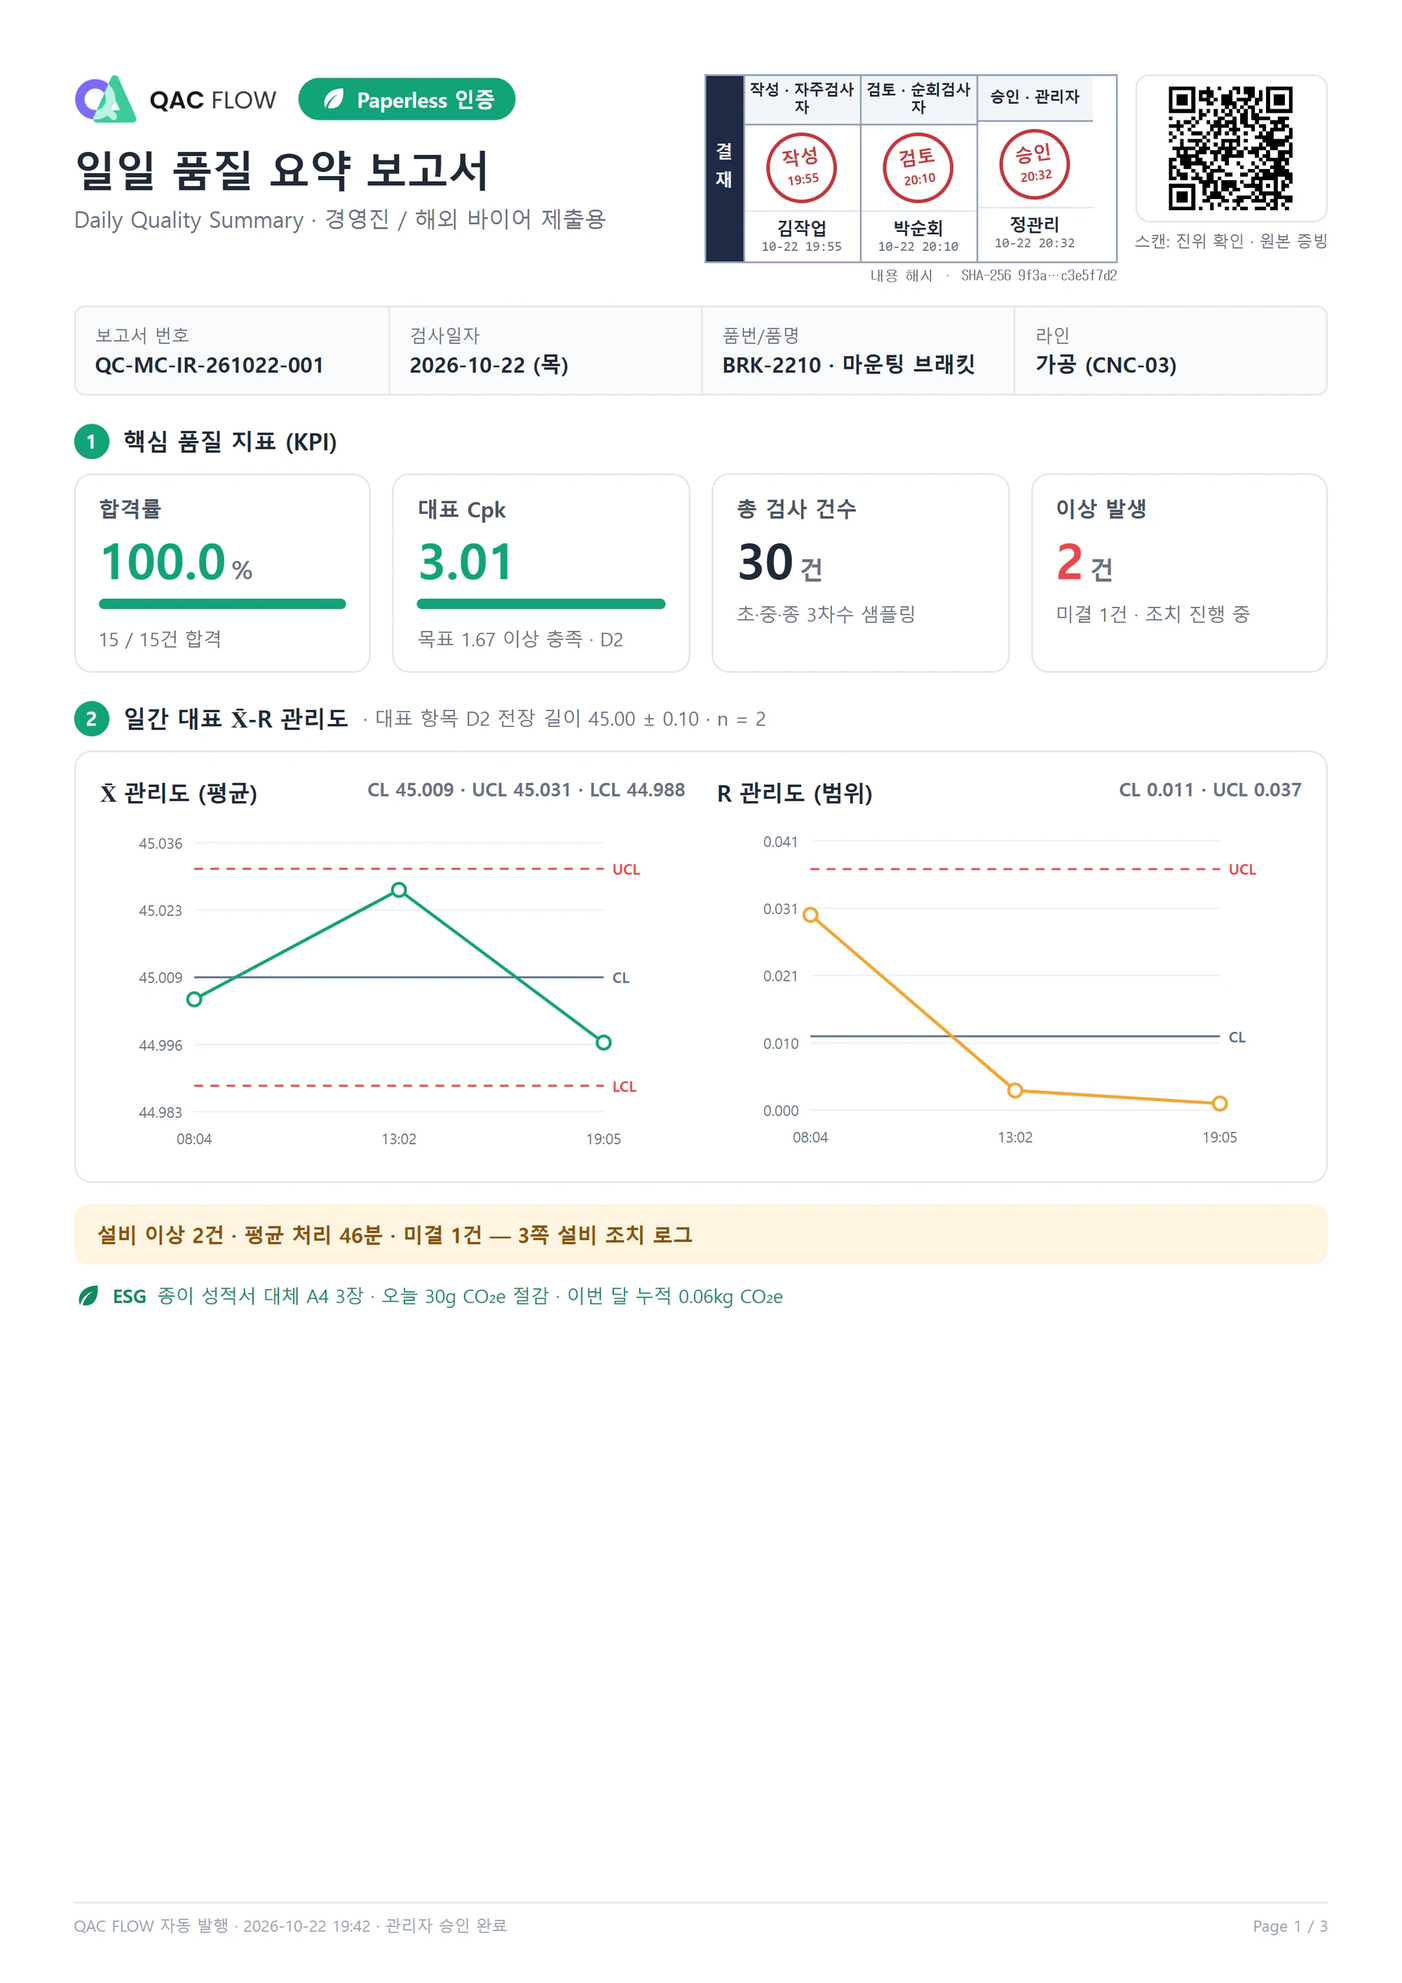
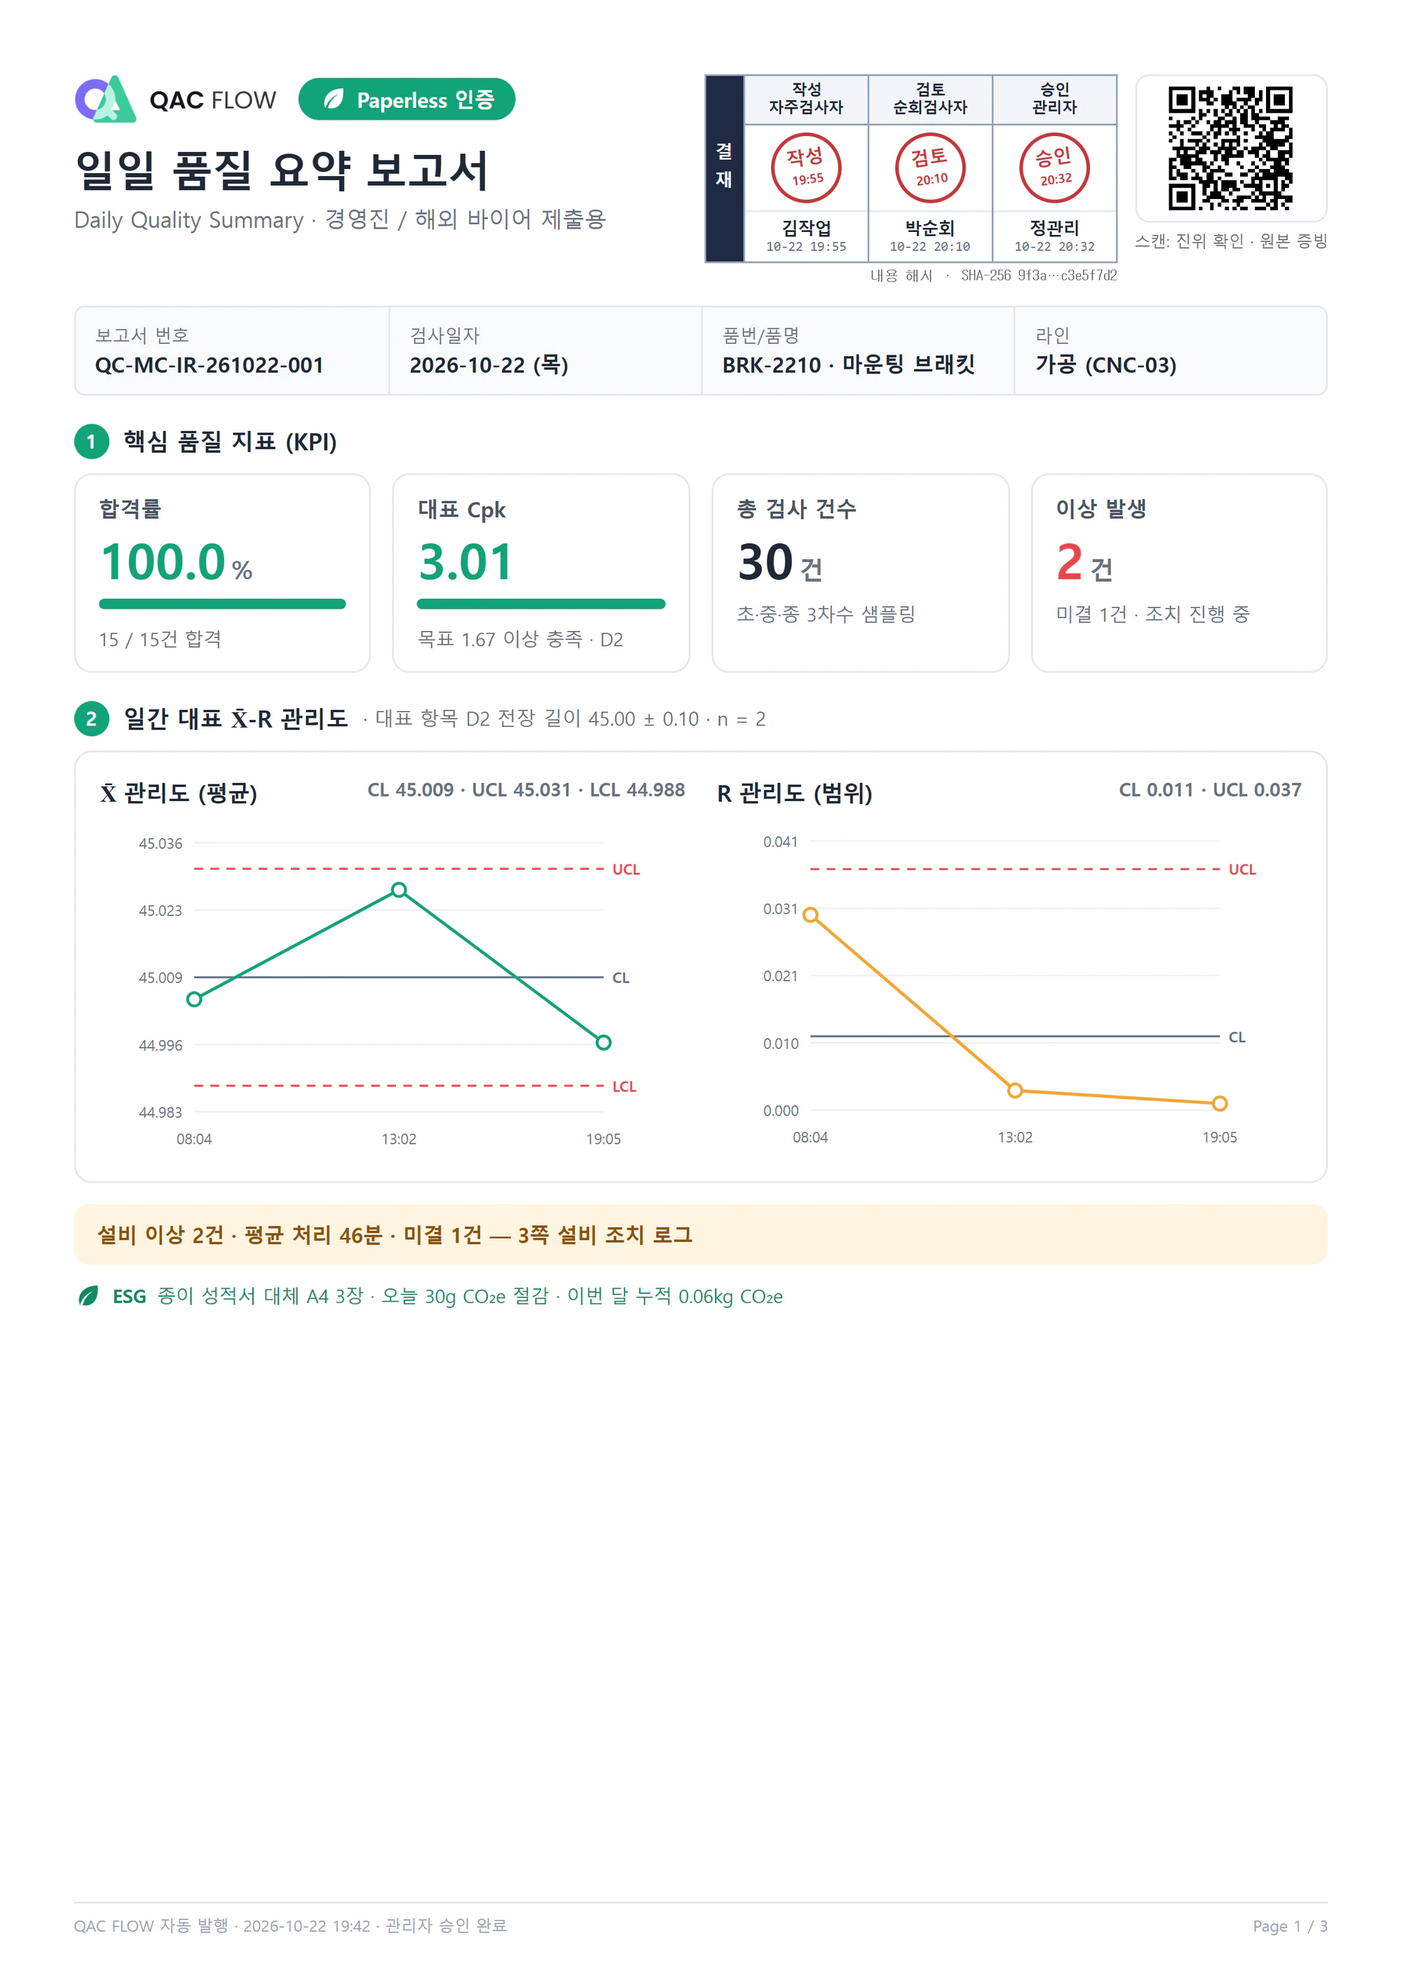
feat: SPC 화면에 매뉴얼식 번호 표시와 설명, 라이트 모드 배경을 흰색으로, 도입 카드를 문의 안내로, 보고서 1쪽 결재란 정렬
- SPC 4개 화면마다 꼬리 달린 번호 표시 + 화면 아래 번호별 설명 (국문·영문)
- 라이트 배경 #D8DBDF → 흰색, 교차 구간·카드는 아주 옅은 회색
- '4주 동안 먼저 써 보세요' → '우리 현장에도 맞을지 궁금하다면 편하게 문의해 주세요'
- 국문 보고서 1쪽 결재란을 같은 너비 3칸·두 줄 머리글로 다시 맞춤 (캡처의 글자·도장 픽셀 그대로)

Changed region(s): [[0.527, 0.0311, 0.775, 0.1244]]

diff --git a/src/i18n/locales/ko.ts b/src/i18n/locales/ko.ts
@@ -201,6 +201,37 @@ export const ko = {
       metricsLabel: '한눈에 보는 지표',
       metrics: ['Cpk', 'Ppk', '평균', '표준편차', '측정 수', '관리 이탈'],
       captions: ['조회 조건 · 지표 · Xbar-R 관리도', '공정능력', '설비 이상 신고 목록', '설비 이상 처리 과정'],
+      /** the numbered notes on each screen, in the order of its markers (Spc.tsx) */
+      guides: [
+        [
+          { title: '조회 조건', body: '제품, 측정 항목, 설비, 기간을 골라 볼 범위를 정합니다.' },
+          { title: '관리 한계 근접 경고', body: '부분군 평균이 관리 한계에 가까워지면 이탈 전에 미리 알려 줍니다.' },
+          { title: '공정능력 지표', body: 'Cpk·Ppk가 목표(1.67)를 넘는지 색과 함께 바로 보여 줍니다.' },
+          { title: '관리 이탈', body: '관리 한계를 벗어난 부분군 수와 조치가 필요한지 표시합니다.' },
+          { title: '이탈점', body: '빨간 점은 관리 한계를 벗어난 부분군, 주황 점은 한계에 가까운 부분군입니다.' },
+          { title: '관리 한계선', body: 'UCL·CL·LCL과 공차 85% 선을 함께 그려 여유를 한눈에 봅니다.' },
+          { title: 'R 관리도', body: '부분군 안의 산포(범위)가 커지는지 따로 봅니다.' }
+        ],
+        [
+          { title: '측정값 분포', body: '선택한 기간의 전체 측정값을 히스토그램과 정규 곡선으로 봅니다.' },
+          { title: '규격 한계', body: '빨간 선이 규격 하한(LSL)과 상한(USL)입니다. 분포가 그 안에 얼마나 여유 있게 들어오는지 봅니다.' },
+          { title: '공정능력 지수', body: 'Cp·Cpk는 군내 σ, Pp·Ppk는 전체 σ로 계산합니다.' }
+        ],
+        [
+          { title: '상태 필터', body: '신고 접수, 조치 중, 조치 완료별로 골라 봅니다.' },
+          { title: '이상 신고', body: '현장에서 설비 이상을 바로 신고합니다.' },
+          { title: '신고 내용', body: '어느 설비에 어떤 이상이 있었는지, 언제 누가 신고했는지 남습니다.' },
+          { title: '비가동·비용', body: '이상으로 멈춘 시간과 조치에 든 비용이 함께 기록됩니다.' },
+          { title: '조치 상태', body: '조치 중인지, 끝났는지 한눈에 구분합니다.' }
+        ],
+        [
+          { title: '이상 내용', body: '신고된 설비와 제품, 신고자와 일시, 이상 내용입니다.' },
+          { title: '처리 타임라인', body: '신고 접수 → 조치 중 → 조치 완료가 담당자와 시각과 함께 이어집니다.' },
+          { title: '조치 내용', body: '무엇을 했는지와 그때의 비가동 시간, 비용입니다.' },
+          { title: '합계', body: '이 신고의 총 비가동 시간과 총 조치 비용입니다.' },
+          { title: '이 설비의 다른 신고', body: '같은 설비의 지난 이상 이력을 바로 이어서 봅니다.' }
+        ]
+      ],
       alts: [
         'SPC 분석 화면: 제품·측정 항목·설비·기간 조회 조건, 관리 한계 근접 경고, Cpk·Ppk·평균·σ·측정 수·관리 이탈 지표, X̄ 관리도와 R 관리도',
         'SPC 분석 공정능력: 전체 측정값 분포 히스토그램과 규격 하한·상한, Cp·Cpk·Pp·Ppk',
@@ -260,7 +291,7 @@ export const ko = {
         { title: '모니터', body: '현장 현황판' }
       ],
       kitNote: '전용 측정 장비나 센서 공사는 필요 없습니다.',
-      trial: { label: '4주 시험 적용', title: '우리 현장에서 4주 동안 먼저 써 보세요.', body: '실제 검사에 4주 동안 시험 적용해 보고 도입을 결정할 수 있습니다. 대상 품목과 진행 방법은 상담에서 함께 정합니다.', cta: '시험 적용 문의' },
+      trial: { label: '도입 문의', title: '우리 현장에도 맞을지 궁금하다면 편하게 문의해 주세요.', body: '검사하는 품목과 쓰시는 측정기, 지금의 검사 방식을 알려 주시면 현장에 맞는 적용 방법을 안내해 드립니다. 실제 검사에 4주 동안 시험 적용해 보는 방법도 함께 상의할 수 있습니다.', cta: '도입 문의하기' },
       faqTitle: '자주 묻는 질문',
       faq: [
         { q: '어떤 측정기를 쓸 수 있나요?', a: '측정값이 화면에 숫자로 표시되는 디지털 측정기(디지털 캘리퍼스 등)를 촬영해 OCR로 읽습니다. 현장에서 쓰는 측정기가 맞는지는 상담에서 확인해 드립니다.' },

diff --git a/src/i18n/locales/en.ts b/src/i18n/locales/en.ts
@@ -190,6 +190,37 @@ export const en: Messages = {
       metricsLabel: 'Key indicators',
       metrics: ['Cpk', 'Ppk', 'Mean', 'Std. dev.', 'Sample count', 'Out of control'],
       captions: ['Filters · indicators · Xbar-R charts', 'Process capability', 'Equipment issue reports', 'How an issue was handled'],
+      /** the numbered notes on each screen, in the order of its markers (Spc.tsx) */
+      guides: [
+        [
+          { title: 'Filters', body: 'Choose the product, dimension, machine and period to look at.' },
+          { title: 'Control limit warning', body: 'Warns when subgroup means approach a control limit, before they go out of control.' },
+          { title: 'Capability indicators', body: 'Shows at a glance, by color, whether Cpk and Ppk meet the 1.67 target.' },
+          { title: 'Out of control', body: 'The number of subgroups beyond the control limits, and whether action is needed.' },
+          { title: 'Flagged points', body: 'Red points are subgroups beyond a control limit; orange points are near one.' },
+          { title: 'Control limits', body: 'UCL, CL and LCL are drawn with the 85%-of-tolerance lines, so the margin is easy to see.' },
+          { title: 'R chart', body: 'Tracks the spread (range) within each subgroup on its own chart.' }
+        ],
+        [
+          { title: 'Distribution', body: 'All measurements in the period as a histogram with a normal curve.' },
+          { title: 'Spec limits', body: 'The red lines are the lower (LSL) and upper (USL) spec limits; see how comfortably the distribution fits between them.' },
+          { title: 'Capability indices', body: 'Cp and Cpk use within-subgroup sigma; Pp and Ppk use overall sigma.' }
+        ],
+        [
+          { title: 'Status filter', body: 'Filter by reported, in progress and resolved.' },
+          { title: 'Report an issue', body: 'Report an equipment issue straight from the floor.' },
+          { title: 'Issue details', body: 'Which machine had what issue, and when and by whom it was reported.' },
+          { title: 'Downtime and cost', body: 'The time the machine was down and the cost of the action are recorded with it.' },
+          { title: 'Action status', body: 'See at a glance whether an issue is still being handled or resolved.' }
+        ],
+        [
+          { title: 'Issue', body: 'The machine and product, who reported it and when, and what happened.' },
+          { title: 'Handling timeline', body: 'Reported → in progress → resolved, each step with its owner and time.' },
+          { title: 'Action taken', body: 'What was done, with the downtime and cost at that step.' },
+          { title: 'Totals', body: 'Total downtime and total action cost for this issue.' },
+          { title: 'The machine\'s other reports', body: 'The same machine\'s earlier issues, one tap away.' }
+        ]
+      ],
       alts: [
         'SPC analysis screen: product, dimension, machine and period filters, an approaching-control-limit warning, Cpk, Ppk, mean, sigma, sample count and out-of-control indicators, and the X̄ and R charts',
         'SPC process capability: a histogram of all measurements against the lower and upper spec limits, with Cp, Cpk, Pp and Ppk',
@@ -250,10 +281,10 @@ export const en: Messages = {
       ],
       kitNote: 'No dedicated measuring equipment or sensor installation required.',
       trial: {
-        label: '4-week trial',
-        title: 'Try it on your own floor for four weeks.',
-        body: 'Run QAC FLOW on real inspections for four weeks before you decide. We agree on the parts and the plan together.',
-        cta: 'Ask about a trial'
+        label: 'Get in touch',
+        title: 'Wondering whether it fits your floor? We would be glad to hear from you.',
+        body: 'Tell us about the parts you inspect, the gauges you use and how you inspect today, and we will suggest how QAC FLOW could work for you. A four-week trial on real inspections can be part of that conversation.',
+        cta: 'Contact us'
       },
       faqTitle: 'Frequently asked questions',
       faq: [

diff --git a/src/views/qac-flow/parts.tsx b/src/views/qac-flow/parts.tsx
@@ -64,6 +64,48 @@ export function Browser({ src, alt, sizes, caption, className }: { src: string; 
   );
 }
 
+/** where a numbered marker points on a screen, in % of the image (the tip of its tail) */
+export type Pin = { x: number; y: number };
+
+/** A web screen with numbered markers on it, the way a manual points things out, and the notes for those
+ * numbers under it. Each marker is a mint disc whose tail ends on the spot; the screen still opens full
+ * size on a click (the markers let the click through). */
+export function Annotated({ src, alt, sizes, caption, pins, notes, cols = 1, className }: {
+  src: string; alt: string; sizes: string; caption?: ReactNode; pins: Pin[];
+  notes: readonly { title: string; body: string }[]; cols?: 1 | 2 | 3; className?: string;
+}) {
+  const capture = useCapture();
+  return (
+    <figure className={cn('m-0 overflow-hidden rounded-window border border-line-2 bg-card', className)}>
+      <div aria-hidden="true" className="flex gap-1.5 border-b border-line px-3 py-2.5">{[0, 1, 2].map(i => <i key={i} className="size-2 rounded-full bg-line-2" />)}</div>
+      <Zoomable src={capture(src)} alt={alt}>
+        <div className="relative">
+          <Img src={capture(src)} alt={alt} sizes={sizes} className="app-screen block h-auto w-full bg-plate" />
+          {pins.map((p, i) => (
+            <span key={i} aria-hidden="true" style={{ left: `${p.x}%`, top: `${p.y}%` }}
+              className="pointer-events-none absolute grid -translate-x-1/2 -translate-y-full justify-items-center drop-shadow-[0_2px_4px_rgb(0_0_0/.35)]">
+              <b className="grid size-6.5 place-items-center rounded-full bg-qf text-caption leading-none font-bold text-on-acc ring-2 ring-white max-sm:size-5.5 max-sm:text-[.7rem]">{i + 1}</b>
+              {/* the tail: a short stem ending in a point on the spot */}
+              <i className="h-2.5 w-0.5 bg-qf max-sm:h-1.5" />
+              <i className="size-1.5 -translate-y-px rounded-full bg-qf ring-2 ring-white" />
+            </span>
+          ))}
+        </div>
+      </Zoomable>
+      {caption && <figcaption className="mono border-t border-line px-3.5 py-2.5 text-mute">{caption}</figcaption>}
+      <ol className={cn('m-0 grid list-none gap-x-6 gap-y-3 border-t border-line bg-bg px-4 py-4 sm:px-5', cols === 2 && 'sm:grid-cols-2', cols === 3 && 'sm:grid-cols-2 lg:grid-cols-3')}>
+        {notes.map((n, i) => (
+          <li key={n.title} className="grid grid-cols-[auto_1fr] items-start gap-x-2.5 gap-y-0.5">
+            <b className="row-span-2 mt-0.5 grid size-5.5 place-items-center rounded-full bg-qf text-[.72rem] leading-none font-bold text-on-acc">{i + 1}</b>
+            <span className="text-body-sm font-semibold">{n.title}</span>
+            <span className="text-caption leading-copy text-fg-2">{n.body}</span>
+          </li>
+        ))}
+      </ol>
+    </figure>
+  );
+}
+
 /** a step's title and body, beside its number or icon (the grid around it places them) */
 export function StepText({ title, body, className }: { title: ReactNode; body: ReactNode; className?: string }) {
   return <>

diff --git a/src/views/qac-flow/sections/Spc.tsx b/src/views/qac-flow/sections/Spc.tsx
@@ -1,6 +1,19 @@
 import { useT } from '../../../i18n';
 import { Band } from '../../../components/ui';
-import { Browser, Head } from '../parts';
+import { Annotated, Head, type Pin } from '../parts';
+
+/** Where each screen's numbered markers point, in % of the image, in the order of the copy's guides
+ * (the same in Korean and English: the two captures share their layout). */
+const PINS: Pin[][] = [
+  // filters, the warning, Cpk, out of control, the red point, the control limits, the R chart
+  [{ x: 12, y: 4.4 }, { x: 74, y: 12.2 }, { x: 9, y: 18.6 }, { x: 90, y: 18.6 }, { x: 84.6, y: 49.4 }, { x: 92.5, y: 50.6 }, { x: 6, y: 72.6 }],
+  // the distribution, the spec limits, the indices
+  [{ x: 41, y: 42.5 }, { x: 72.3, y: 50 }, { x: 87, y: 21 }],
+  // the status filter, report an issue, the details, downtime and cost, the status
+  [{ x: 15, y: 5.4 }, { x: 92.6, y: 11.3 }, { x: 16, y: 25.4 }, { x: 18.5, y: 47.5 }, { x: 94.5, y: 37.2 }],
+  // the issue, the timeline, the action, the totals, the other reports
+  [{ x: 60, y: 24 }, { x: 21.5, y: 34.2 }, { x: 61, y: 49 }, { x: 75, y: 61.9 }, { x: 27, y: 79.2 }]
+];
 
 /** SPC: what the approved records add up to, with the SPC screen of the app (CES final, Korean and
  * English) cut in two (the filters, indicators and X̄-R charts; capability) and the equipment issue
@@ -29,14 +42,14 @@ export function Spc() {
         </ul>
       </div>
       <div className="mt-10 grid gap-4">
-        <Browser className="rv" src="spc-charts.webp" alt={s.alts[0]} caption={s.captions[0]} sizes="(max-width: 1440px) 100vw, 1280px" />
+        <Annotated className="rv" src="spc-charts.webp" alt={s.alts[0]} caption={s.captions[0]} sizes="(max-width: 1440px) 100vw, 1280px" pins={PINS[0]} notes={s.guides[0]} cols={3} />
         {/* capability and the equipment issue list stacked, beside one issue followed through to its close */}
         <div className="grid items-start gap-4 md:grid-cols-2">
           <div className="grid gap-4">
-            <Browser className="rv" src="spc-capability.webp" alt={s.alts[1]} caption={s.captions[1]} sizes="(max-width: 767px) 100vw, 640px" />
-            <Browser className="rv" src="equip-issues.webp" alt={s.alts[2]} caption={s.captions[2]} sizes="(max-width: 767px) 100vw, 640px" />
+            <Annotated className="rv" src="spc-capability.webp" alt={s.alts[1]} caption={s.captions[1]} sizes="(max-width: 767px) 100vw, 640px" pins={PINS[1]} notes={s.guides[1]} />
+            <Annotated className="rv" src="equip-issues.webp" alt={s.alts[2]} caption={s.captions[2]} sizes="(max-width: 767px) 100vw, 640px" pins={PINS[2]} notes={s.guides[2]} />
           </div>
-          <Browser className="rv" src="equip-issue-detail.webp" alt={s.alts[3]} caption={s.captions[3]} sizes="(max-width: 767px) 100vw, 640px" />
+          <Annotated className="rv" src="equip-issue-detail.webp" alt={s.alts[3]} caption={s.captions[3]} sizes="(max-width: 767px) 100vw, 640px" pins={PINS[3]} notes={s.guides[3]} />
         </div>
       </div>
       <p className="mono m-0 mt-6 text-micro text-mute">{s.note}</p>

diff --git a/src/styles/tokens.css b/src/styles/tokens.css
@@ -158,8 +158,8 @@
   --color-ink-line-2: rgb(230 233 236 / .24);
   /* the accent as it reads on graphite */
   --color-ink-acc: #3CCB9A;
-  /* anodized aluminum, the light page */
-  --color-paper: #D8DBDF;
+  /* white, the light page */
+  --color-paper: #FFFFFF;
   /* type set on photographs and on the accent fill */
   --color-on-photo: #fff;
   --color-on-acc: #2A2D33;
@@ -254,7 +254,7 @@
   /* ---- mode set: aluminum ---- */
   html[data-mode="light"] {
     color-scheme: light;
-    --bg: var(--color-paper); --bg-2: #E4E6E9; --card: #E9EBEE;
+    --bg: var(--color-paper); --bg-2: #F4F6F8; --card: #F6F7F9;
     --fg: var(--color-ink); --fg-2: #454A52; --mute: #585E66;
     --line: color-mix(in srgb, var(--color-ink) 14%, transparent); --line-2: color-mix(in srgb, var(--color-ink) 32%, transparent);
     --acc: #3CCB9A; --acc-2: #1E9E74; --acc-ink: #106A4B; --acc-glow: rgb(60 203 154 / .3);

diff --git a/src/site/RootLayout.tsx b/src/site/RootLayout.tsx
@@ -50,7 +50,7 @@ export const siteViewport: Viewport = {
   // the browser's bar in the page's own graphite (dark) or aluminum (light)
   themeColor: [
     { media: '(prefers-color-scheme: dark)', color: '#2A2D33' },
-    { media: '(prefers-color-scheme: light)', color: '#D8DBDF' }
+    { media: '(prefers-color-scheme: light)', color: '#FFFFFF' }
   ]
 };
 
